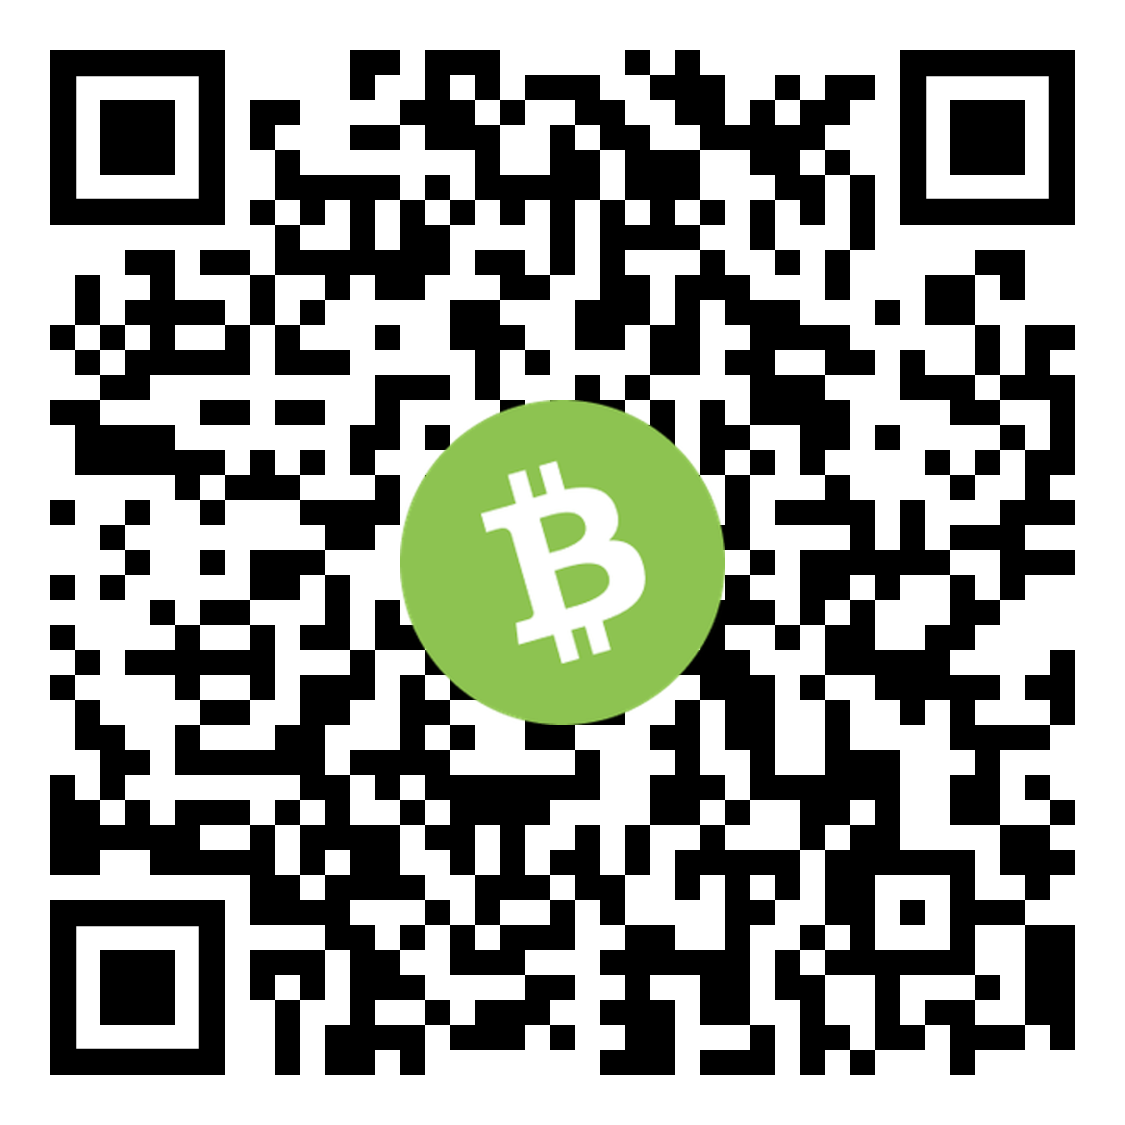
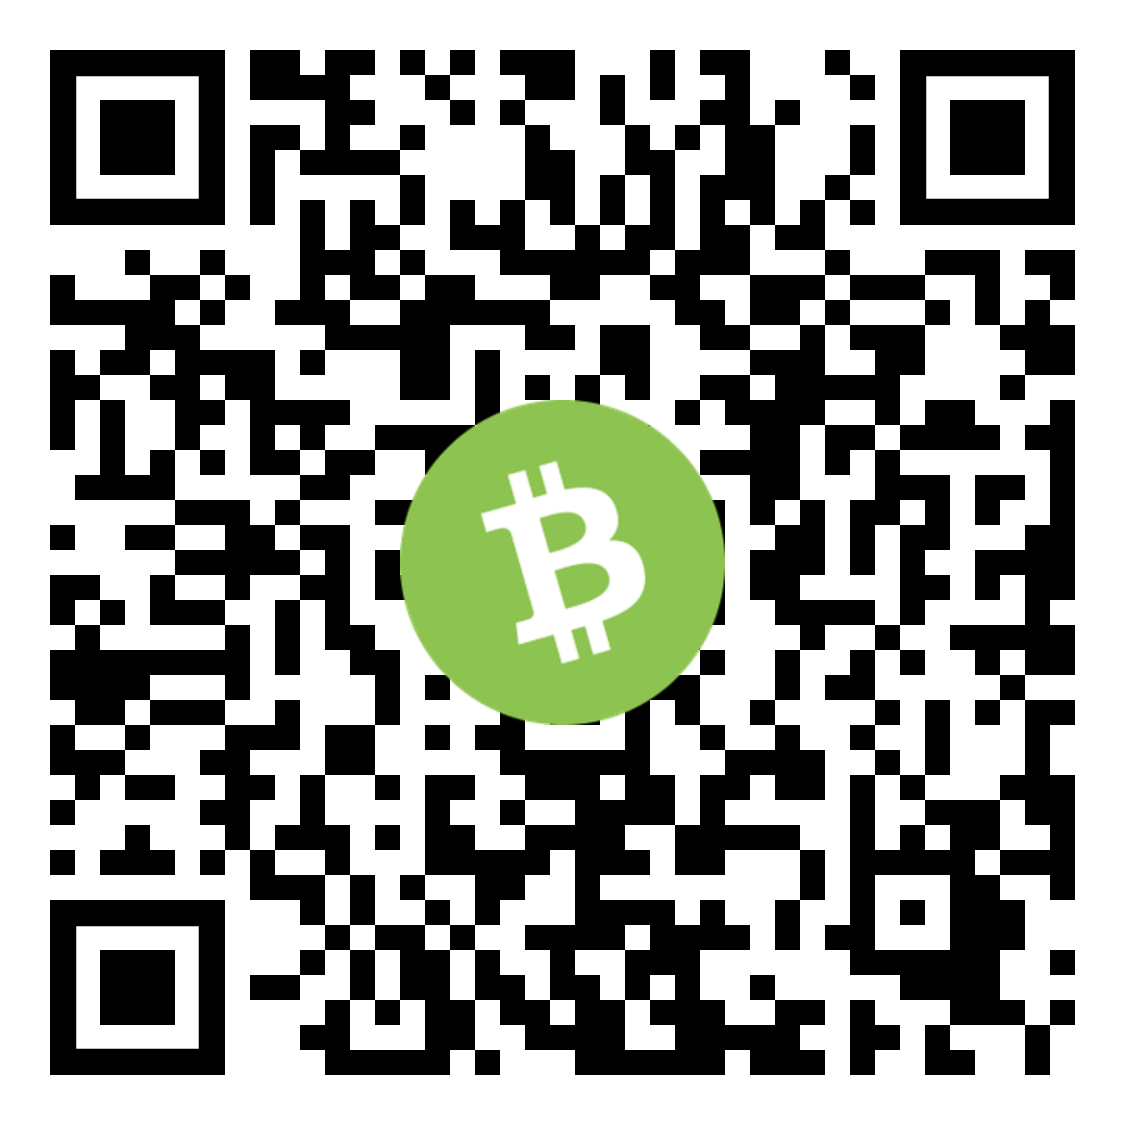
Update donation address.

diff --git a/docusaurus.config.js b/docusaurus.config.js
@@ -2,7 +2,7 @@ const lightCodeTheme = require("prism-react-renderer/themes/github");
 const darkCodeTheme = require("prism-react-renderer/themes/dracula");
 require("dotenv").config();
 
-const bchAddress = "qqp46yxv56stea5maxq90lf720z2wkzwyc9a2f3fn9";
+const bchAddress = "qq487m8m0v97652muj302ch84ypl06wdvs7z2mt4s9";
 
 /** @type {import('@docusaurus/types').DocusaurusConfig} */
 module.exports = {
